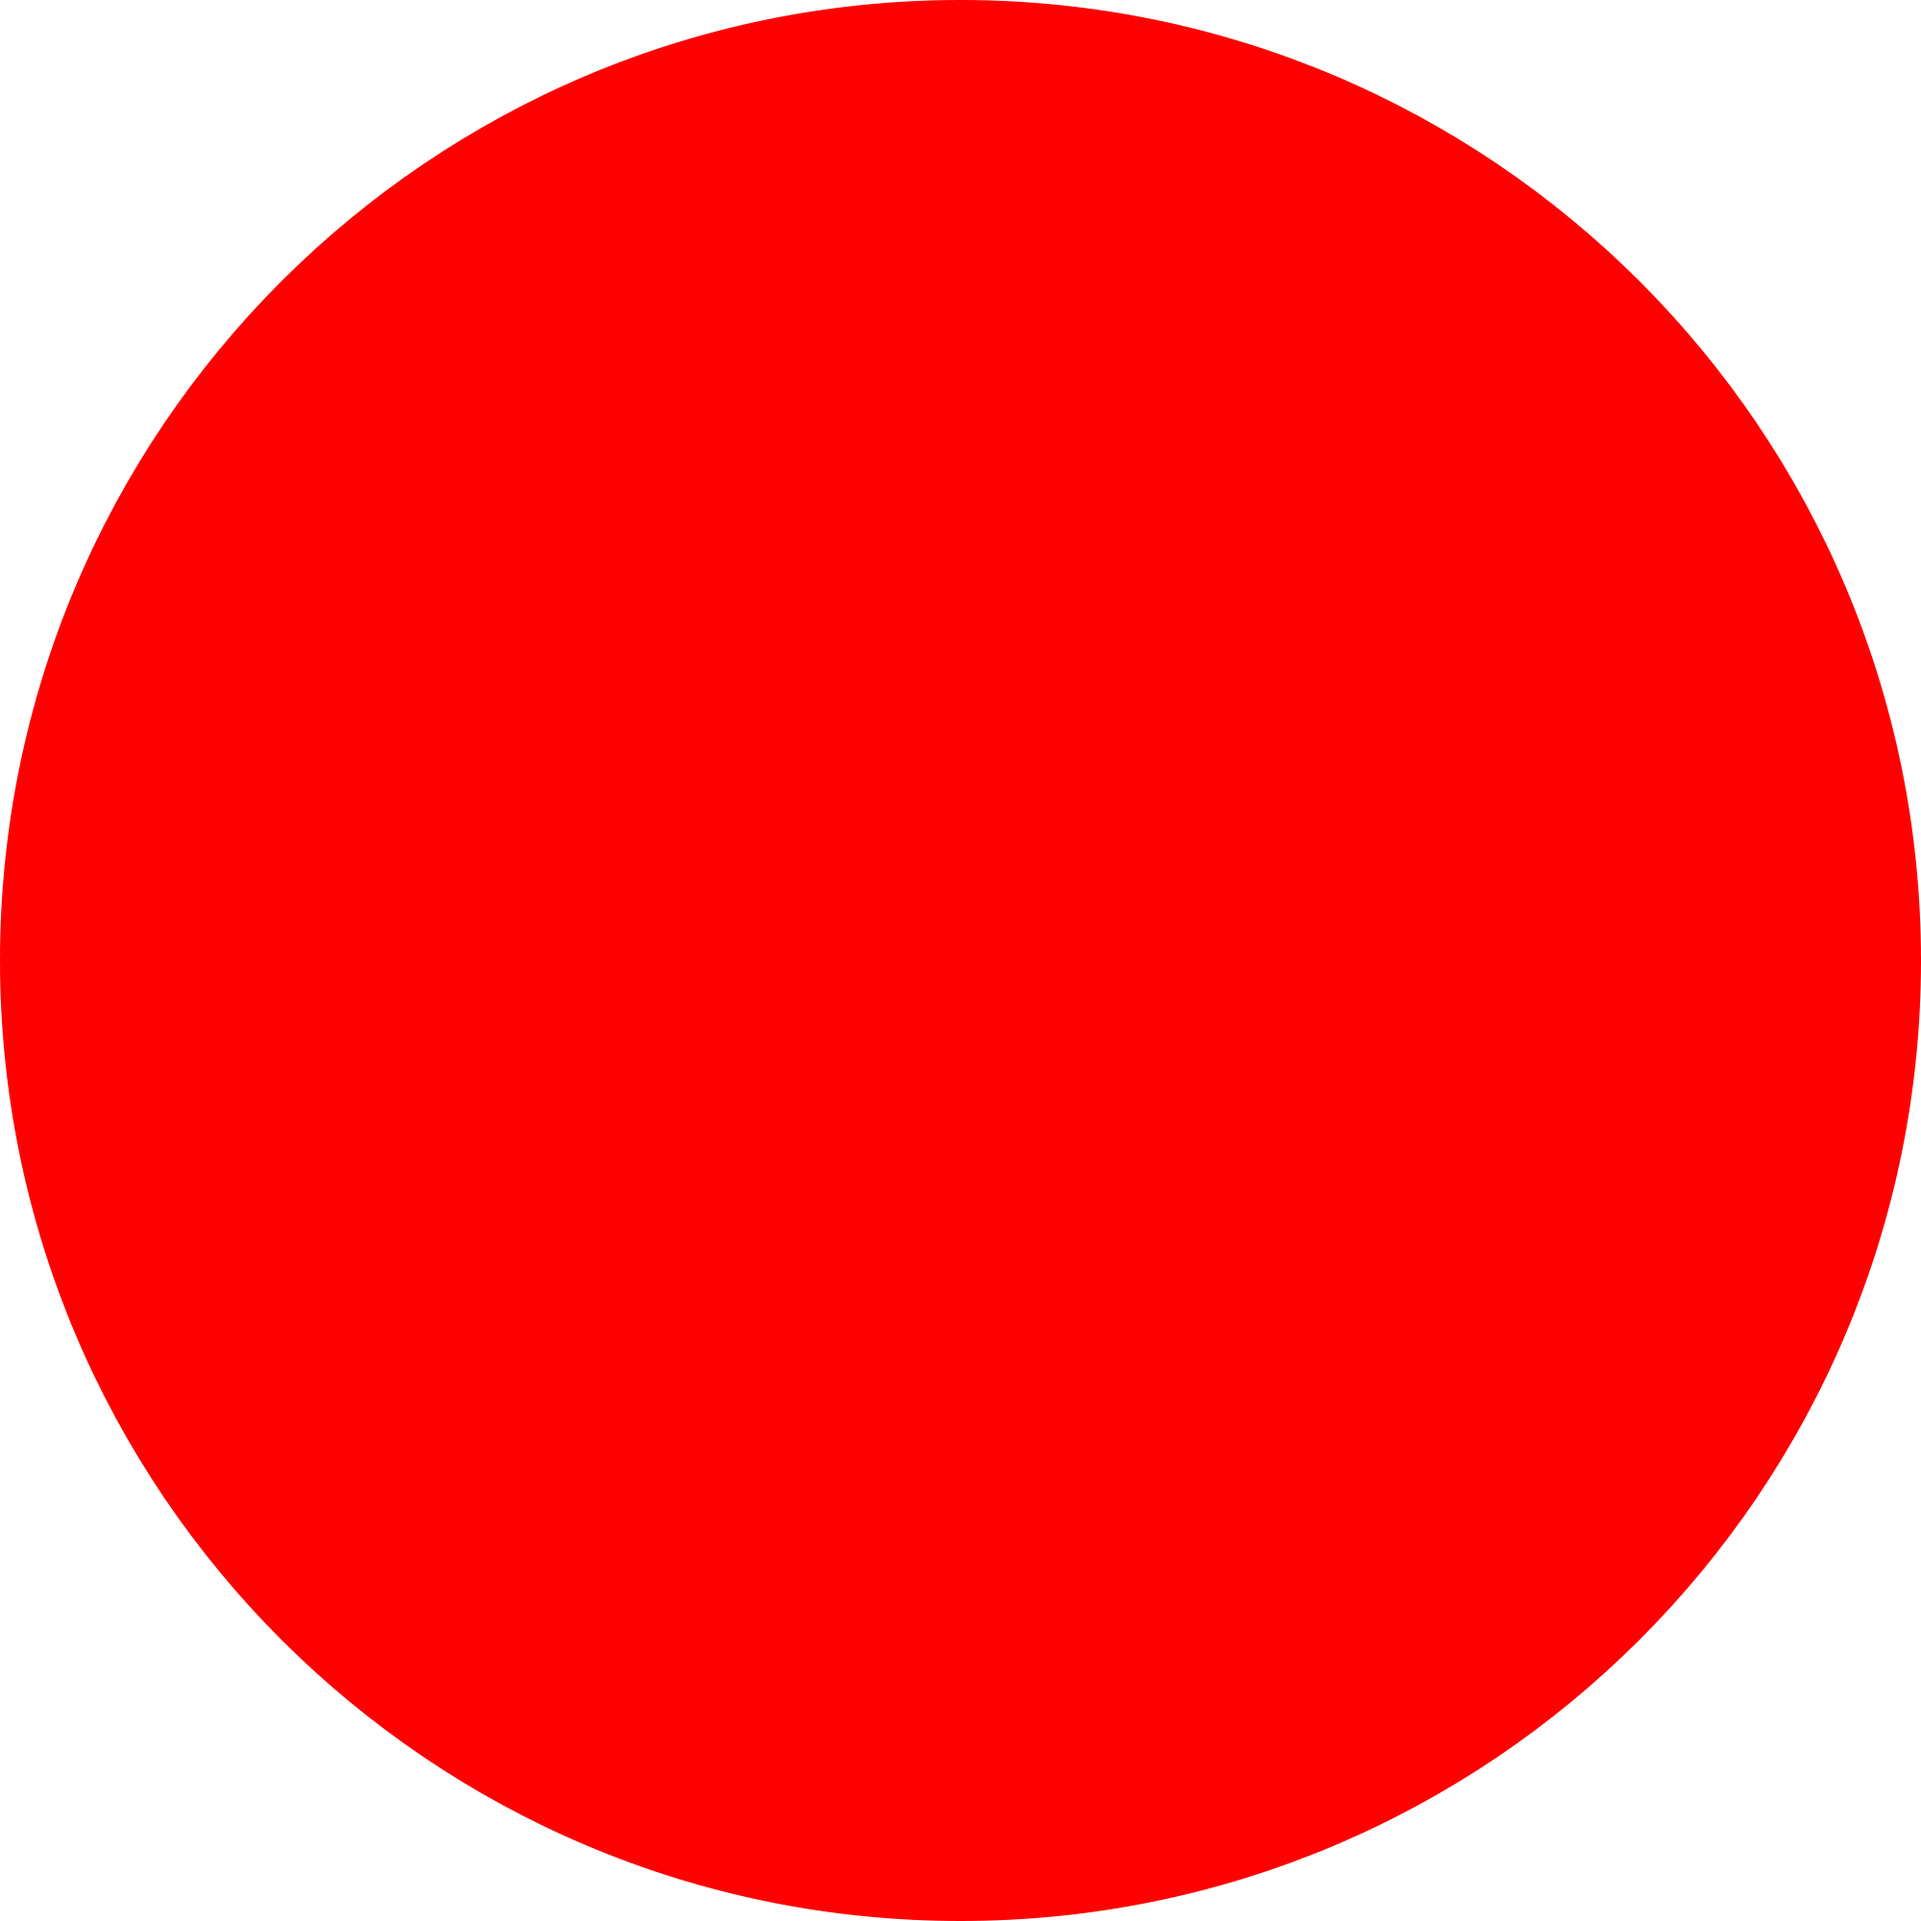
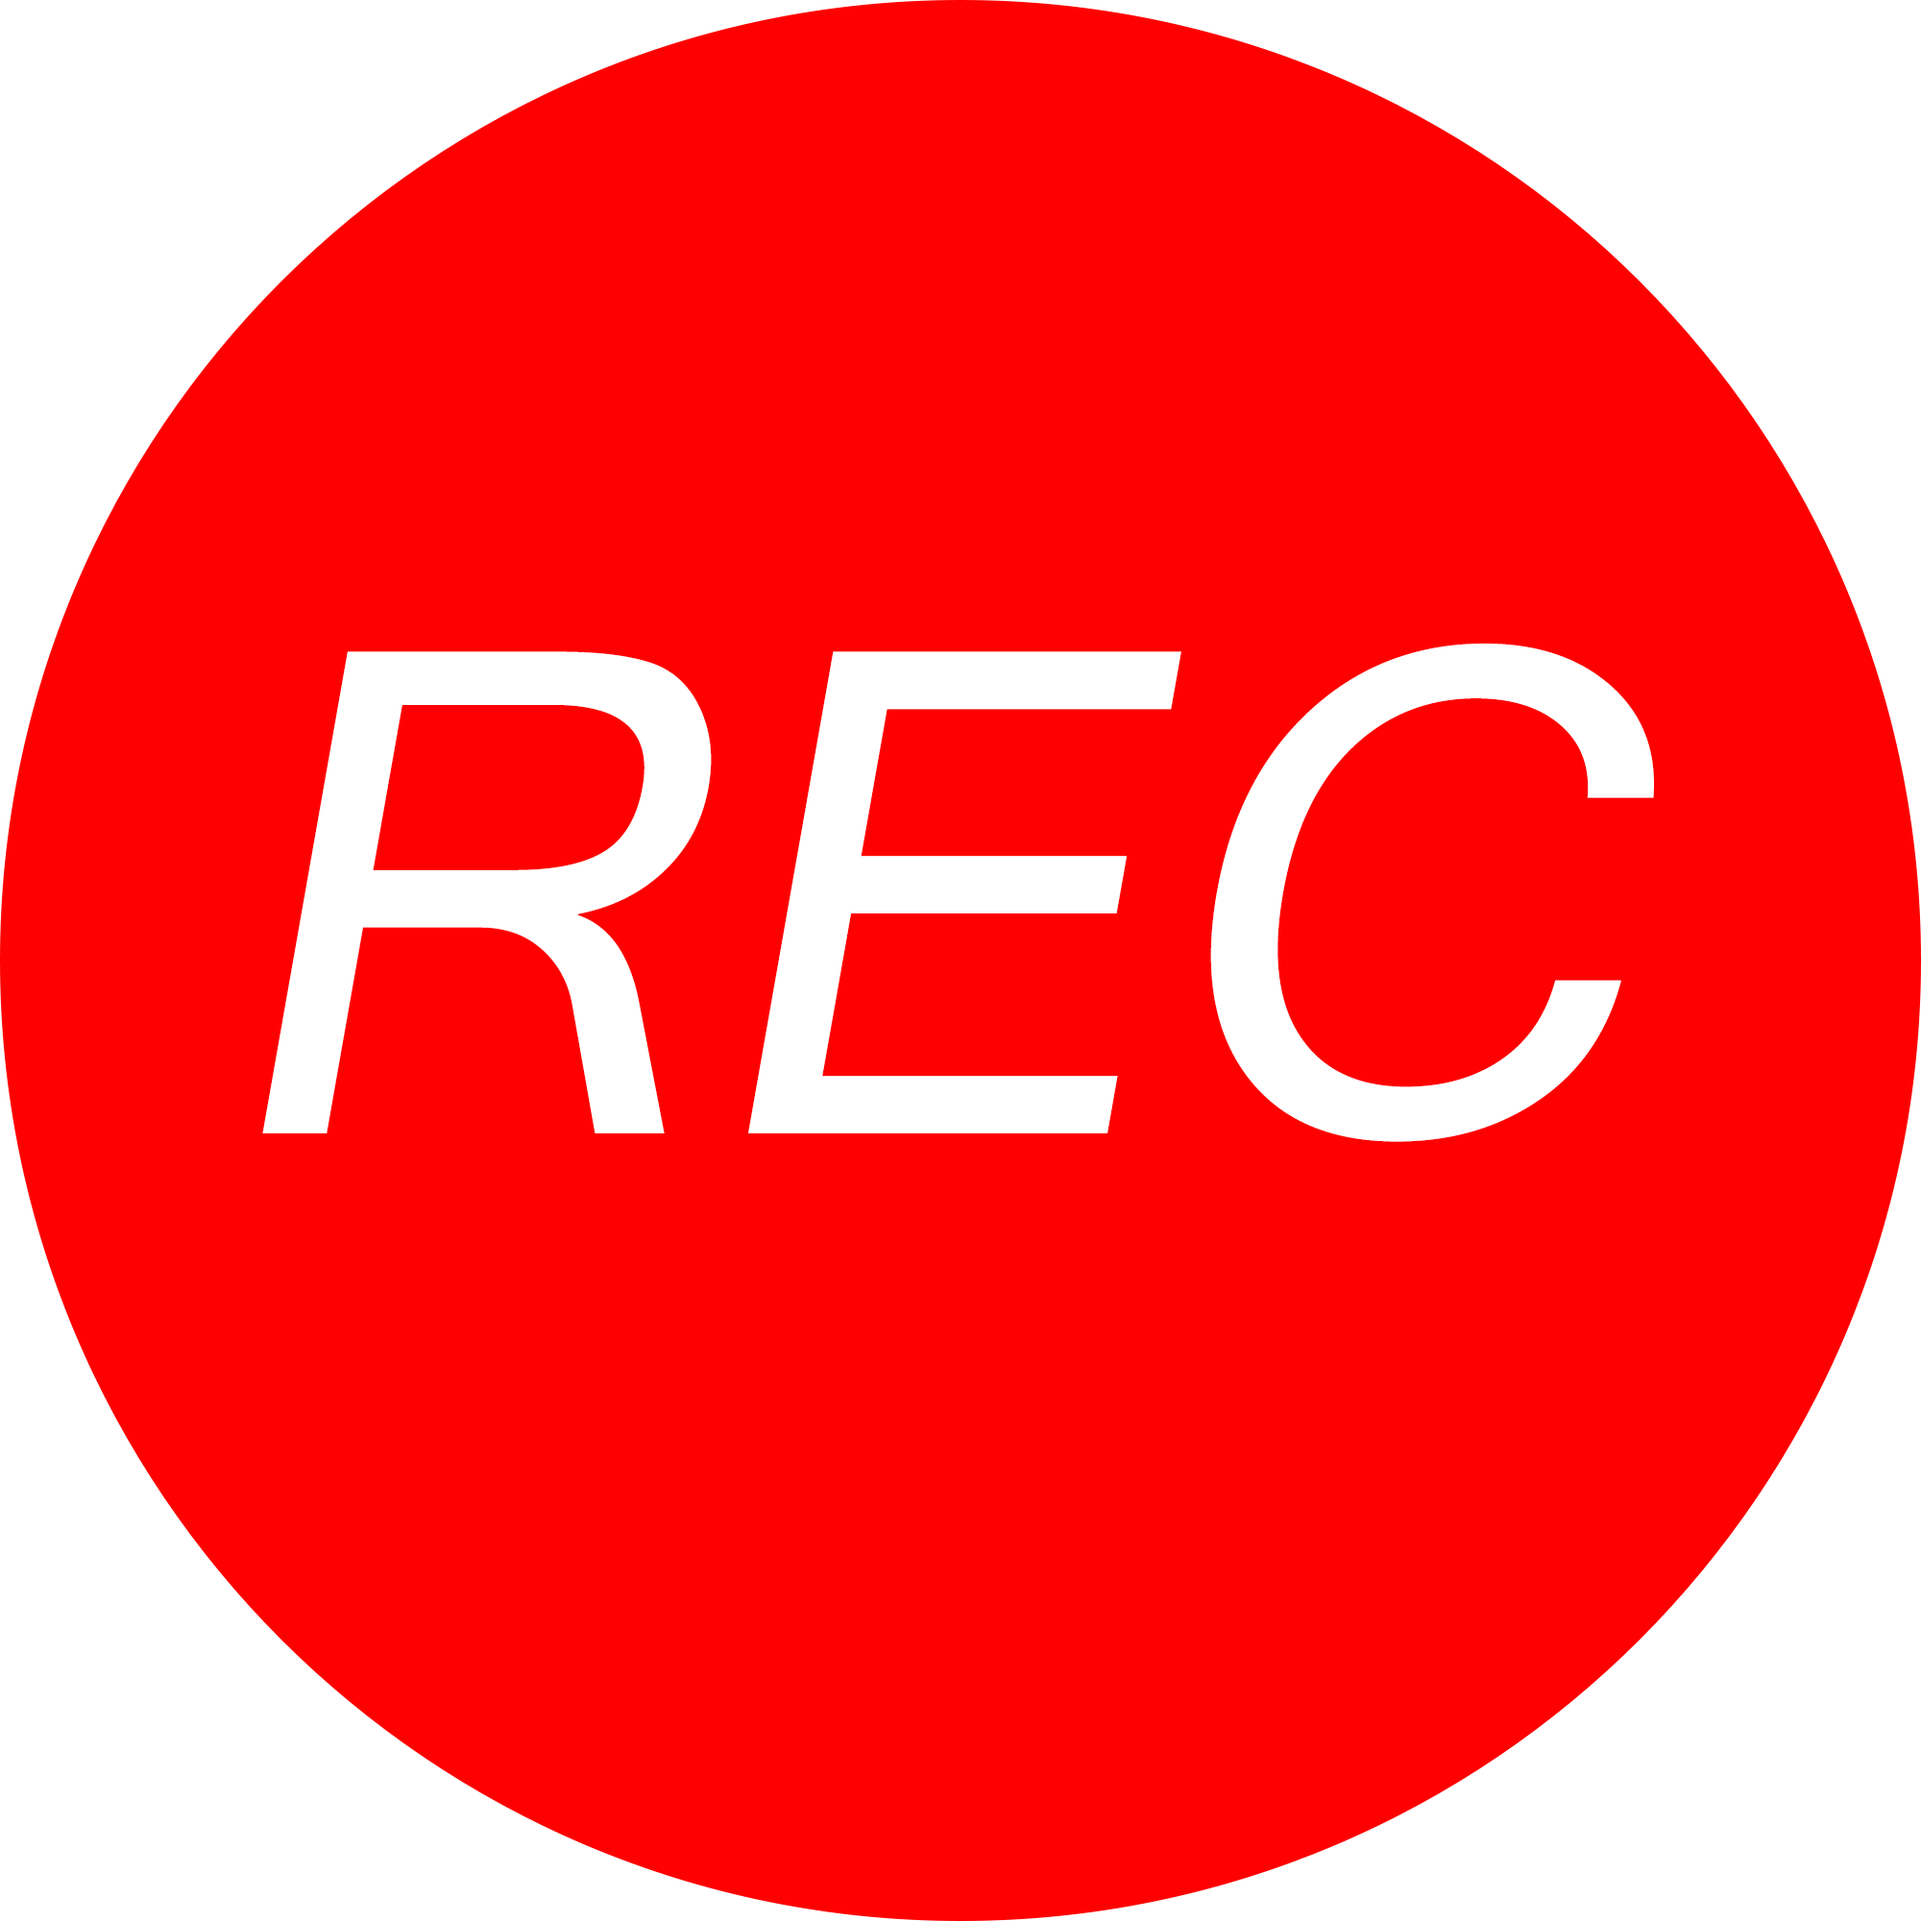
Made more descriptive buttons for stop and record, fixed some css and code clean up

Changed region(s): [[0.124, 0.341, 0.372, 0.589], [0.62, 0.31, 0.868, 0.62], [0.372, 0.341, 0.62, 0.589]]

diff --git a/Rhythm Wheels/rhythm_wheels.html b/Rhythm Wheels/rhythm_wheels.html
@@ -315,6 +315,8 @@
    aria-hidden="true">
    <div class="modal-dialog modal-lg" role="document">
      <div class="modal-content">
+       
+       <!-- Header -->
        <div class="modal-header">
          <h5 class="modal-title" id="recordingModalLabel">Record Your Own Audio</h5>
          <button type="button" class="close" data-dismiss="modal" aria-label="Close">
@@ -324,47 +326,12 @@
 
        <!-- Body -->
        <div class="modal-body">
-         <!-- <div class="row">
-           <div class="col-md-3">
-
-             <div class="nav flex-column nav-pills" id="v-pills-tab" role="tablist" aria-orientation="vertical">
-
-               <a class="nav-link active" id="v-pills-load-cloud-tab" data-toggle="pill" href="#v-pills-load-cloud"
-                 role="tab" aria-controls="v-pills-load-cloud" aria-selected="true">Cloud...</a>
-               <a class="nav-link" id="v-pills-load-local-tab" data-toggle="pill" href="#v-pills-load-local" role="tab"
-                 aria-controls="v-pills-load-local" aria-selected="false">Local...</a>
-             </div>
-           </div> -->
-
-          <button id=record><img src='images/recording-dot-png.png' id="recordImg"></button>
+          <button class="btn" id=record><img src='images/recording-dot-png.png' id="recordImg"></button>
           <audio id=recordedAudio></audio>
-           <!-- <div class="col-md-9" style="border-left: lightgray solid 2px;">
-             <div class="tab-content" id="v-pills-tabContent"> -->
-
-               <!-- <div class="tab-pane fade show active" id="v-pills-load-cloud" role="tabpanel"
-                 aria-labelledby="v-pills-load-cloud-tab">
-                 <div id="projects_container">
-                   <div id="projects">
-                   </div>
-                 </div>
-               </div>
-               <div class="tab-pane fade" id="v-pills-load-local" role="tabpanel"
-                 aria-labelledby="v-pills-load-local-tab">
-                 <label for="load">Load Offline Project</label>
-                 <div class="custom-file">
-                   <input type="file" id="load" accept=".rw" class="custom-file-input">
-                   <label class="custom-file-label" for="load">Browse Files</label>
-                 </div> -->
-
-                 <!-- <input type="file" value="Load" id="load" accept=".rw" class="form-control"> -->
-
-
-               <!-- </div>
-             </div>
-           </div> -->
-         <!-- </div> -->
-
        </div>
+
+
+       <!-- Footer -->
        <div class="modal-footer">
          <button type="button" class="btn btn-secondary" data-dismiss="modal">Close</button>
 

diff --git a/Rhythm Wheels/rhythm_wheels.js b/Rhythm Wheels/rhythm_wheels.js
@@ -700,10 +700,7 @@ let RhythmWheels = function() {
         .catch((error)=> console.log(error));
   };
 
-  // Recording
-
-
-
+  // Recording Audio
   let handleAudio = function(streamIn){
     console.log('handling audio');
     audioRec = new MediaRecorder(streamIn);
@@ -718,7 +715,6 @@ let RhythmWheels = function() {
         console.log(blob);
         globals.recorded_audio.src = URL.createObjectURL(blob);
         globals.recorded_audio.autoplay=true;
-
       }
     }
   }
@@ -732,18 +728,10 @@ let RhythmWheels = function() {
       handleAudio(stream)
       console.log(audioRec);
       audioRec.start()});
-      // handleAudio(stream)
-            //  .then(audioRec.start());
     globals.record_button.removeEventListener("click", startRecording);
     globals.record_button.addEventListener("click", stopRecording);
-
     let record = document.getElementById("recordImg");
-    // record.style.width = '30px'
     record.src = "images/stop-recording.png";
-    // audioRec.start();
-
-    // audioChunks = [];
-    // let stream = await navigator.mediaDevices.getUserMedia(new MediaStreamConstraints(true,false));
   }
 
   let stopRecording = function(){
@@ -755,8 +743,6 @@ let RhythmWheels = function() {
     globals.record_button.addEventListener("click", startRecording);
     let record = document.getElementById("recordImg");
     record.src = "images/recording-dot-png.png";
-
-
   }
 
   // generates and downloads string
@@ -1147,8 +1133,6 @@ let RhythmWheels = function() {
 
     loadSounds();
 
-    // audio recording
-
     //  some defaults handled ahere
 
     document.getElementById(constants.title_input_id)
@@ -1168,9 +1152,6 @@ let RhythmWheels = function() {
     globals.record_button = document.getElementById(constants.record_button_id);
     globals.recorded_audio = document.getElementById('recordedAudio');
     globals.recorded_audio.controls=true;
-    // globals.recorded_audio
-    console.log('hello  ' + document.getElementById('audiotest'));
-    
     
     // document.getElementById('audiotest').addEventListener('click', function(event){
     //   console.log('HELLO');
@@ -1236,7 +1217,7 @@ let RhythmWheels = function() {
         .addEventListener('change', readSingleFile, false);
 
 
-    globals.record_button.addEventListener("click", startRecording);
+    document.getElementById(constants.record_button_id).addEventListener("click", startRecording);
     
 
     // document.getElementById(constants.login_button_id)

diff --git a/Rhythm Wheels/main.css b/Rhythm Wheels/main.css
@@ -83,14 +83,26 @@ body {
 
 #record {
     background-color: white;
-    border-radius: 50%;
-    width: 60px;
-    height: 60px;
+    width: 20px;
+    height: 20px;
+    margin-left: 15px;
+    margin-top: 10px;
+    margin-bottom: 10px;
+}
+
+#recordedAudio{
+    position: absolute;
+    left: 100px;
+    bottom: 5px;
+
 }
 
 #recordImg{
-    width: 16px;
-    margin-bottom: 20px;
+    position: absolute;
+    width: 50px;
+    right: 727px;
+    top: 15px;
+    
 }
 
 #stopRecord {
